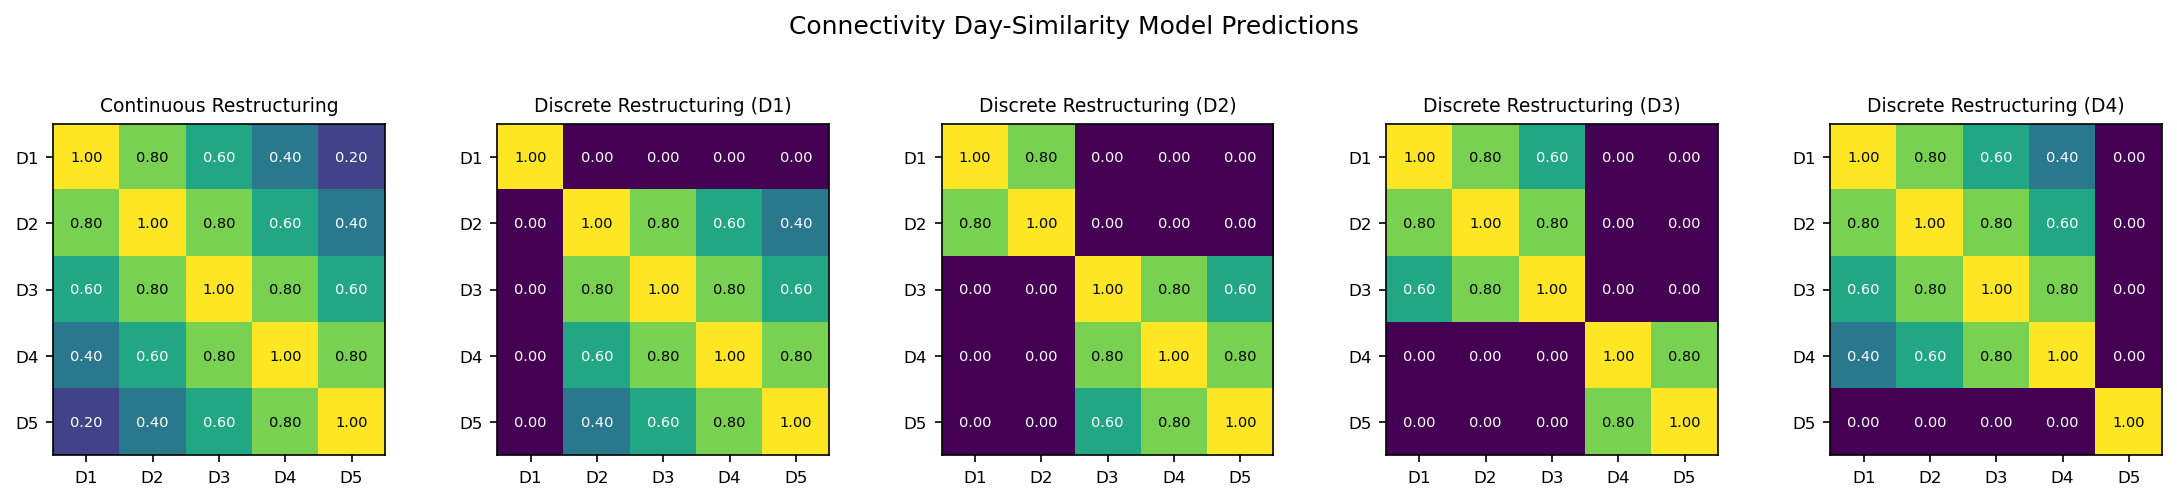
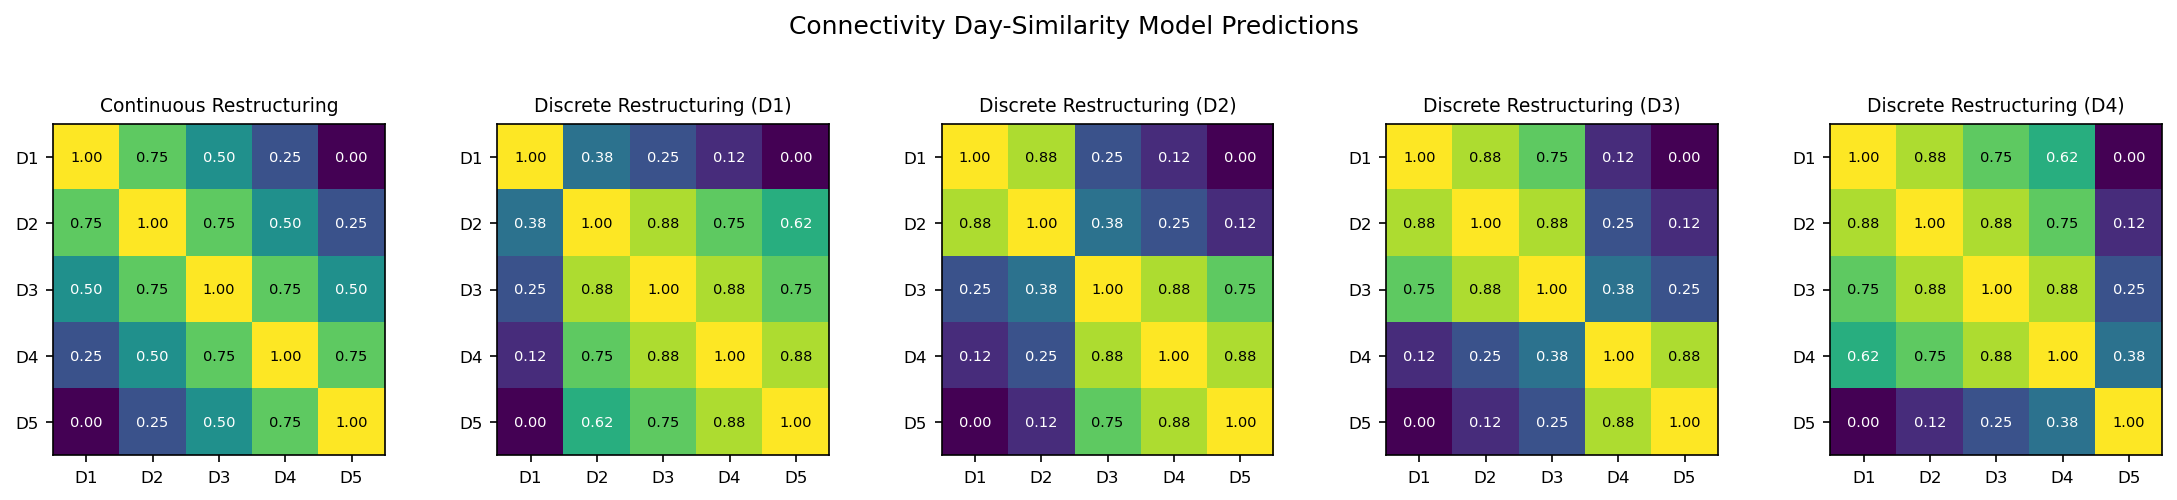
.

diff --git a/code/presentation_figure.py b/code/presentation_figure.py
@@ -926,21 +926,25 @@ def plot_matrix(ax, mat, title, cmap, vmin=None, vmax=None):
 
 
 def conn_template_matrix(kind, split_day=None):
+    """5×5 day-similarity matrix matching the model_distance() formula in
+    connect_sensorwide_model_timecourse_analysis.py, converted to similarity
+    via 1 − distance so higher values mean more similar (consistent with MVPA matrices)."""
     mat = np.full((5, 5), np.nan)
     for d1 in DAYS:
         for d2 in DAYS:
+            gradual_dist = abs(d1 - d2) / 4.0
             if kind == "gradual":
-                val = 1.0 - 0.20 * abs(d1 - d2)
+                dist = gradual_dist
             elif kind == "split_gradual":
                 if split_day is None:
                     raise ValueError("split_gradual requires split_day")
-                if (d1 > split_day) != (d2 > split_day):
-                    val = 0.0
+                if (d1 > split_day) == (d2 > split_day):
+                    dist = 0.5 * gradual_dist
                 else:
-                    val = 1.0 - 0.20 * abs(d1 - d2)
+                    dist = 0.5 + 0.5 * gradual_dist
             else:
                 raise ValueError(f"Unknown connectivity template: {kind}")
-            mat[d1 - 1, d2 - 1] = val
+            mat[d1 - 1, d2 - 1] = 1.0 - dist
     return mat
 
 
